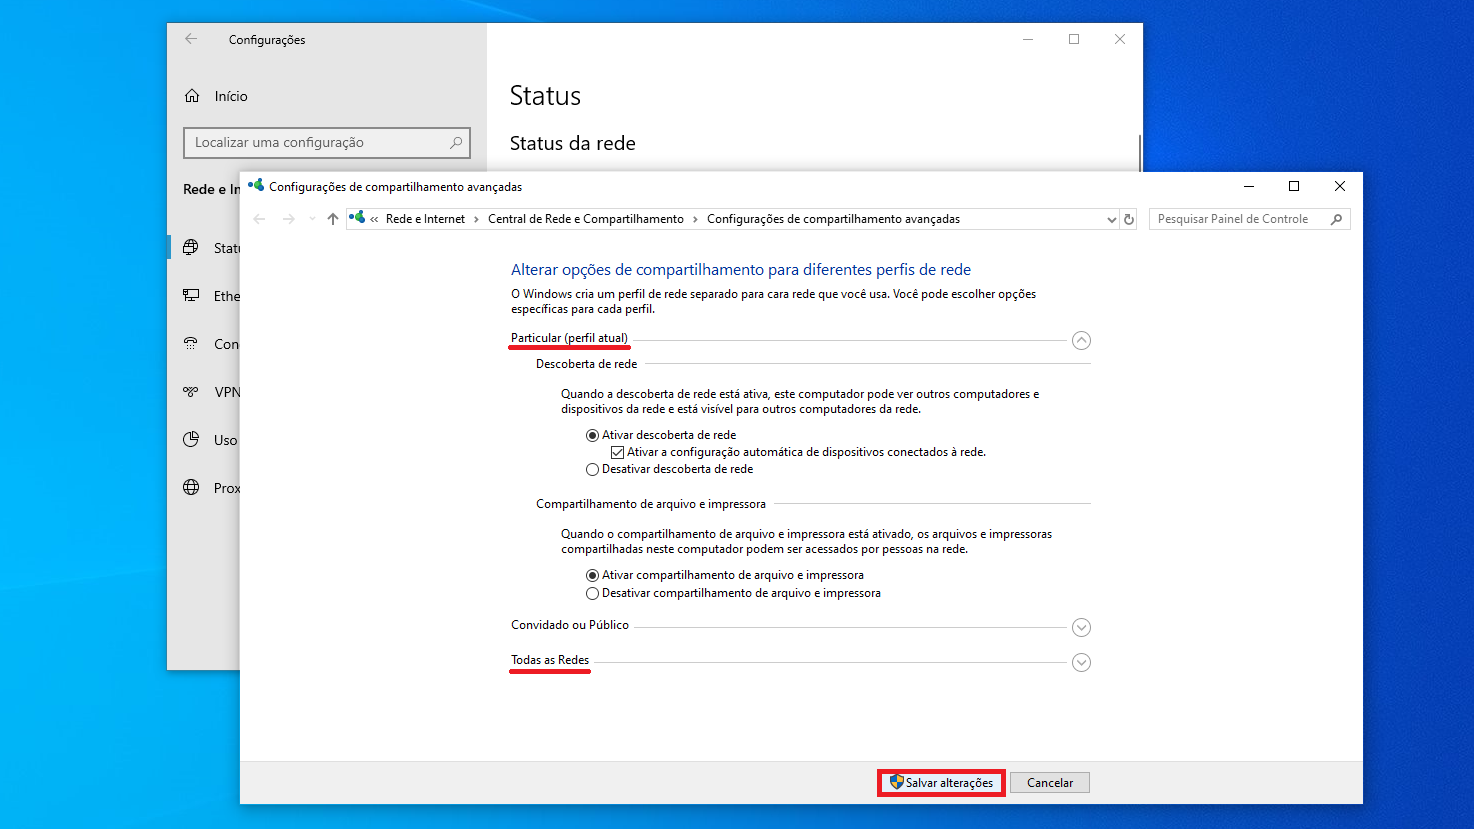
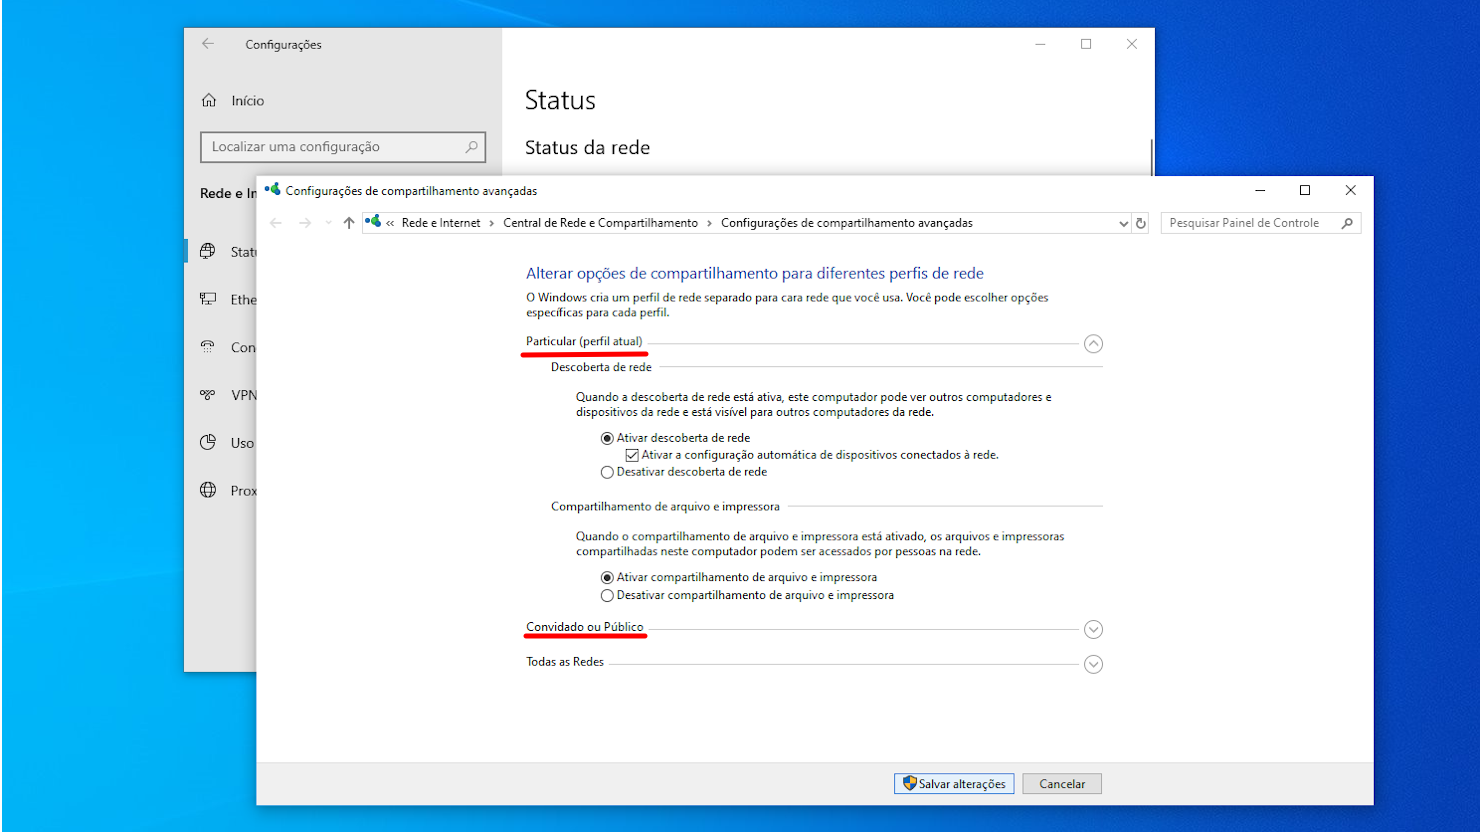
"Ative o compartilhamento" terminado

diff --git a/_posts/2019-11-12-compartilhamento-de-arquivos-entre-computadores-numa-rede-windows.md b/_posts/2019-11-12-compartilhamento-de-arquivos-entre-computadores-numa-rede-windows.md
@@ -18,14 +18,21 @@ As vezes é necessário compartilhar algum arquivo importante entre dois ou mais
 1. Clique com o botão direito no ícone de conexão e clique em "Abrir configurações de rede e internet".
 ![Imagem1](/42/images/post/compartilhar-arquivos-windows(1).png)
 
-2. Se você estiver em uma rede doméstica ou do trabalho, verifique se ela está marcada como privada, se não estiver vá em "Alterar as propriedades de conexão" e marque "Particular", depois volte até a aba "Status" em "Rede e Internet" e clique em "Opções de compartilahmento"
+2. Se você estiver em uma rede doméstica ou do trabalho, verifique se ela está marcada como privada, se não estiver vá em "Alterar as propriedades de conexão" e marque "Particular", depois volte até a aba "Status" em "Rede e Internet".
 ![Imagem2](/42/images/post/compartilhar-arquivos-windows(2).png)
 
-3. Clique em "Particular", em "Descoberta de rede" clique em "Ativar descoberta de rede" e em "Copartilhamento de arquivos e impressora" clique em "Ativar compartilhamento de arquivo e impressora".
+3. Clique em "Opções de compartilhamento".
+
+4. Se estiver em uma rede privada selecione "Particular" senão selecione "Convidado ou Público".
+
+5. Em "Descoberta de rede" clique em "Ativar descoberta de rede" e em "Compartilhamento de arquivos e impressora" clique em "Ativar compartilhamento de arquivo e impressora".
 ![Imagem3](/42/images/post/compartilhar-arquivos-windows(3).png)
 
-4. Clique em "Salvar alterações".
+6. Por padrão o Windows pede uma senha quando alguém tenta entrar em um pasta compartilhada. A senha pode ser desativada indo em "Todas as Redes" e selecionando "Desativar compartilhamento protegido por senha".
 ![Imagem4](/42/images/post/compartilhar-arquivos-windows(4).png)
+
+7. Clique em "Salvar alterações".
+
 
 ## Compartilhe uma pasta
 
